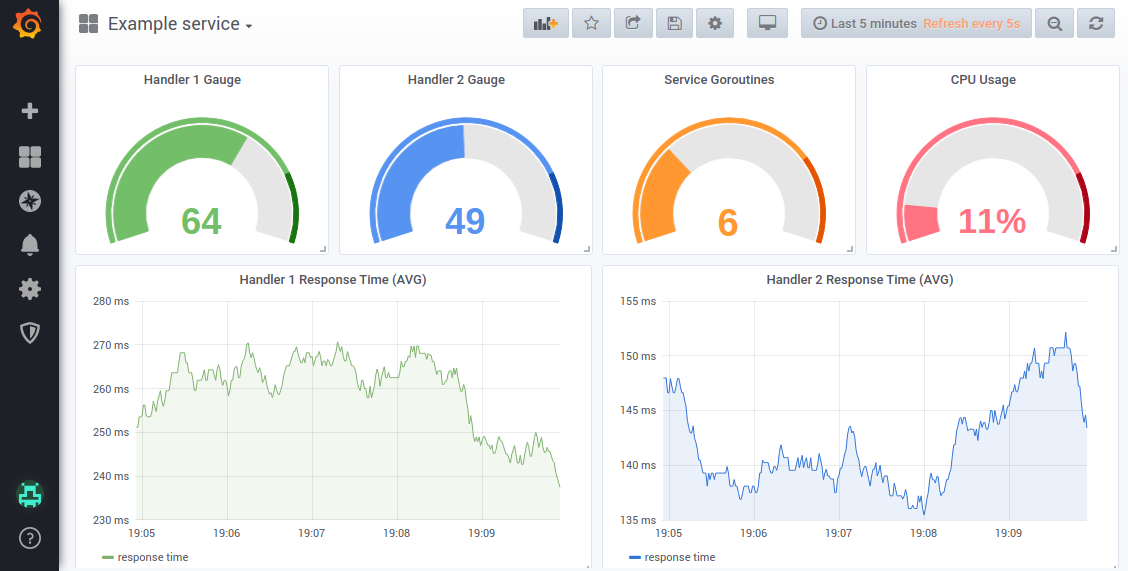
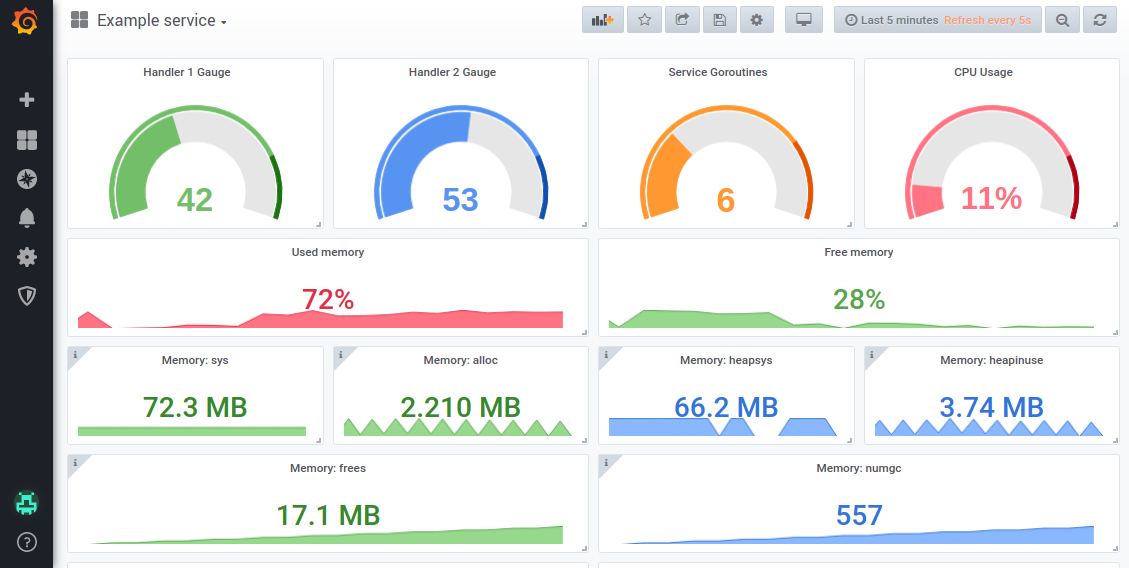
Updated README.md

diff --git a/README.md b/README.md
@@ -5,14 +5,33 @@
 [![GOdoc](https://img.shields.io/badge/godoc-reference-orange)](https://godoc.org/github.com/takattila/prometheus)
 [![Version](https://img.shields.io/badge/dynamic/json.svg?label=version&url=https://api.github.com/repos/takattila/prometheus/releases/latest&query=tag_name)](https://github.com/takattila/prometheus/releases)
 
-The prometheus package provides Prometheus implementations for metrics.
-It provides statistics as well:
-
-- Goroutines (count)
-- Memory usage (bytes)
-- CPU usage (percentage)
+This package is a Prometheus implementation for metrics.
 
 ![prometheus screenshot](./img/screenshot-01.png)
+
+It **provides statistics** as well:
+
+- **Goroutines** (count)
+- **Memory** usage (bytes)
+
+  - **System**:
+  
+    - `Total`: total amount of RAM on this system
+    - `Avail`: RAM available for programs to allocate
+    - `Used` (bytes): RAM used by programs
+    - `Free`: this is the kernel's notion of free memory
+    - `Used` (percent): percentage of RAM used by programs
+    
+  - **Used by the application**:
+  
+    - `Sys`: the total bytes of memory obtained from the OS
+    - `Alloc`: bytes of allocated heap objects
+    - `HeapSys`: bytes of heap memory obtained from the OS
+    - `HeapInuse`: bytes in in-use spans
+    - `NumGC`: the number of completed GC cycles
+
+- **CPU** usage (percentage)
+
 
 ## Table of contents
 
@@ -76,7 +95,11 @@ p := prometheus.New(prometheus.Init{
 [Back to top](#table-of-contents)
 
 ### Counter
+Counter is a cumulative metric that represents a single monotonically increasing counter
+whose value can only increase or be reset to zero on restart.
 
+For example, you can use a counter to represent the number
+of requests served, tasks completed, or errors.
 #### Example code
 
 ```go
@@ -101,6 +124,12 @@ response_status{app="ExampleCounter",env="test",handler="MyHandler1",statuscode=
 [Back to top](#table-of-contents)
 
 ### Gauge
+Gauge is a metric that represents a single numerical value
+that can arbitrarily go up and down.
+
+Gauges are typically used for measured values like temperatures
+or current memory usage, but also "counts" that can go up and down,
+like the number of concurrent requests.
 
 #### Example code
 
@@ -125,6 +154,17 @@ cpu_usage{app="ExampleGauge",core="0",env="test"} 15
 [Back to top](#table-of-contents)
 
 ### Histogram
+Histogram samples observations (usually things like request durations
+or response sizes) and counts them in configurable buckets.
+It also provides a sum of all observed values.
+A histogram with a base metric name of <basename>
+exposes multiple time series during a scrape:
+
+  - cumulative counters for the observation buckets, exposed
+    as <basename>_bucket{le="<upper inclusive bound>"}
+  - the total sum of all observed values, exposed as <basename>_sum
+  - the count of events that have been observed, exposed
+    as <basename>_count (identical to <basename>_bucket{le="+Inf"} above)
 
 #### Example code
 
@@ -156,6 +196,7 @@ history_bucket{app="ExampleHistogram",env="test",sell="actual",le="+Inf"} 1
 [Back to top](#table-of-contents)
 
 ### Elapsed time
+Place this code bellow to measure the computation time of a given function, handler, etc.
 
 #### Example code
 
@@ -201,3 +242,5 @@ get_stat_count{app="ExampleElapsedTime",env="test",handler="purchases"} 1
 For more examples, please visit: [godoc page](https://godoc.org/github.com/takattila/prometheus#pkg-examples) .
 
 [Back to top](#table-of-contents)
+
+![prometheus screenshot](./img/screenshot-02.png)
